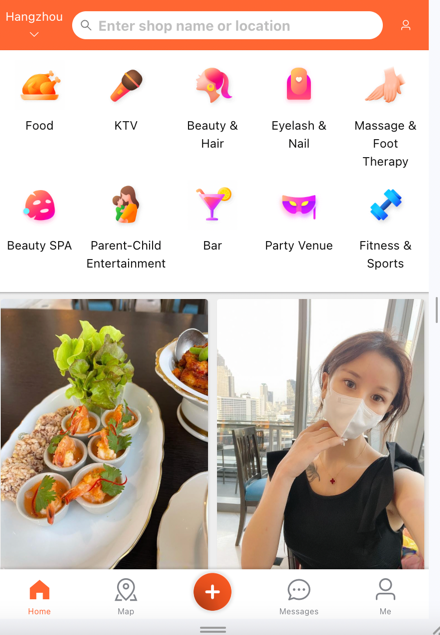
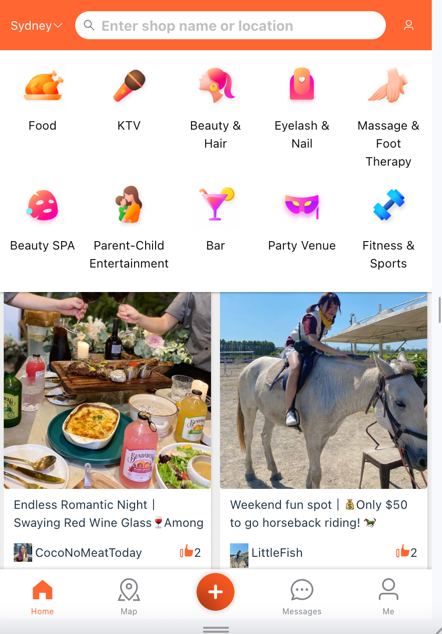
optimize

diff --git a/frontend/src/components/HomePage.jsx b/frontend/src/components/HomePage.jsx
@@ -87,7 +87,7 @@ function HomePage() {
       <div id="app" >
         <div className="search-bar">
           <div className="city-btn">
-            Hangzhou<i className="el-icon-arrow-down"></i>
+            Sydney<i className="el-icon-arrow-down"></i>
           </div>
           <div className="search-input">
             <SearchOutlined style={{ color: 'grey' }} />
